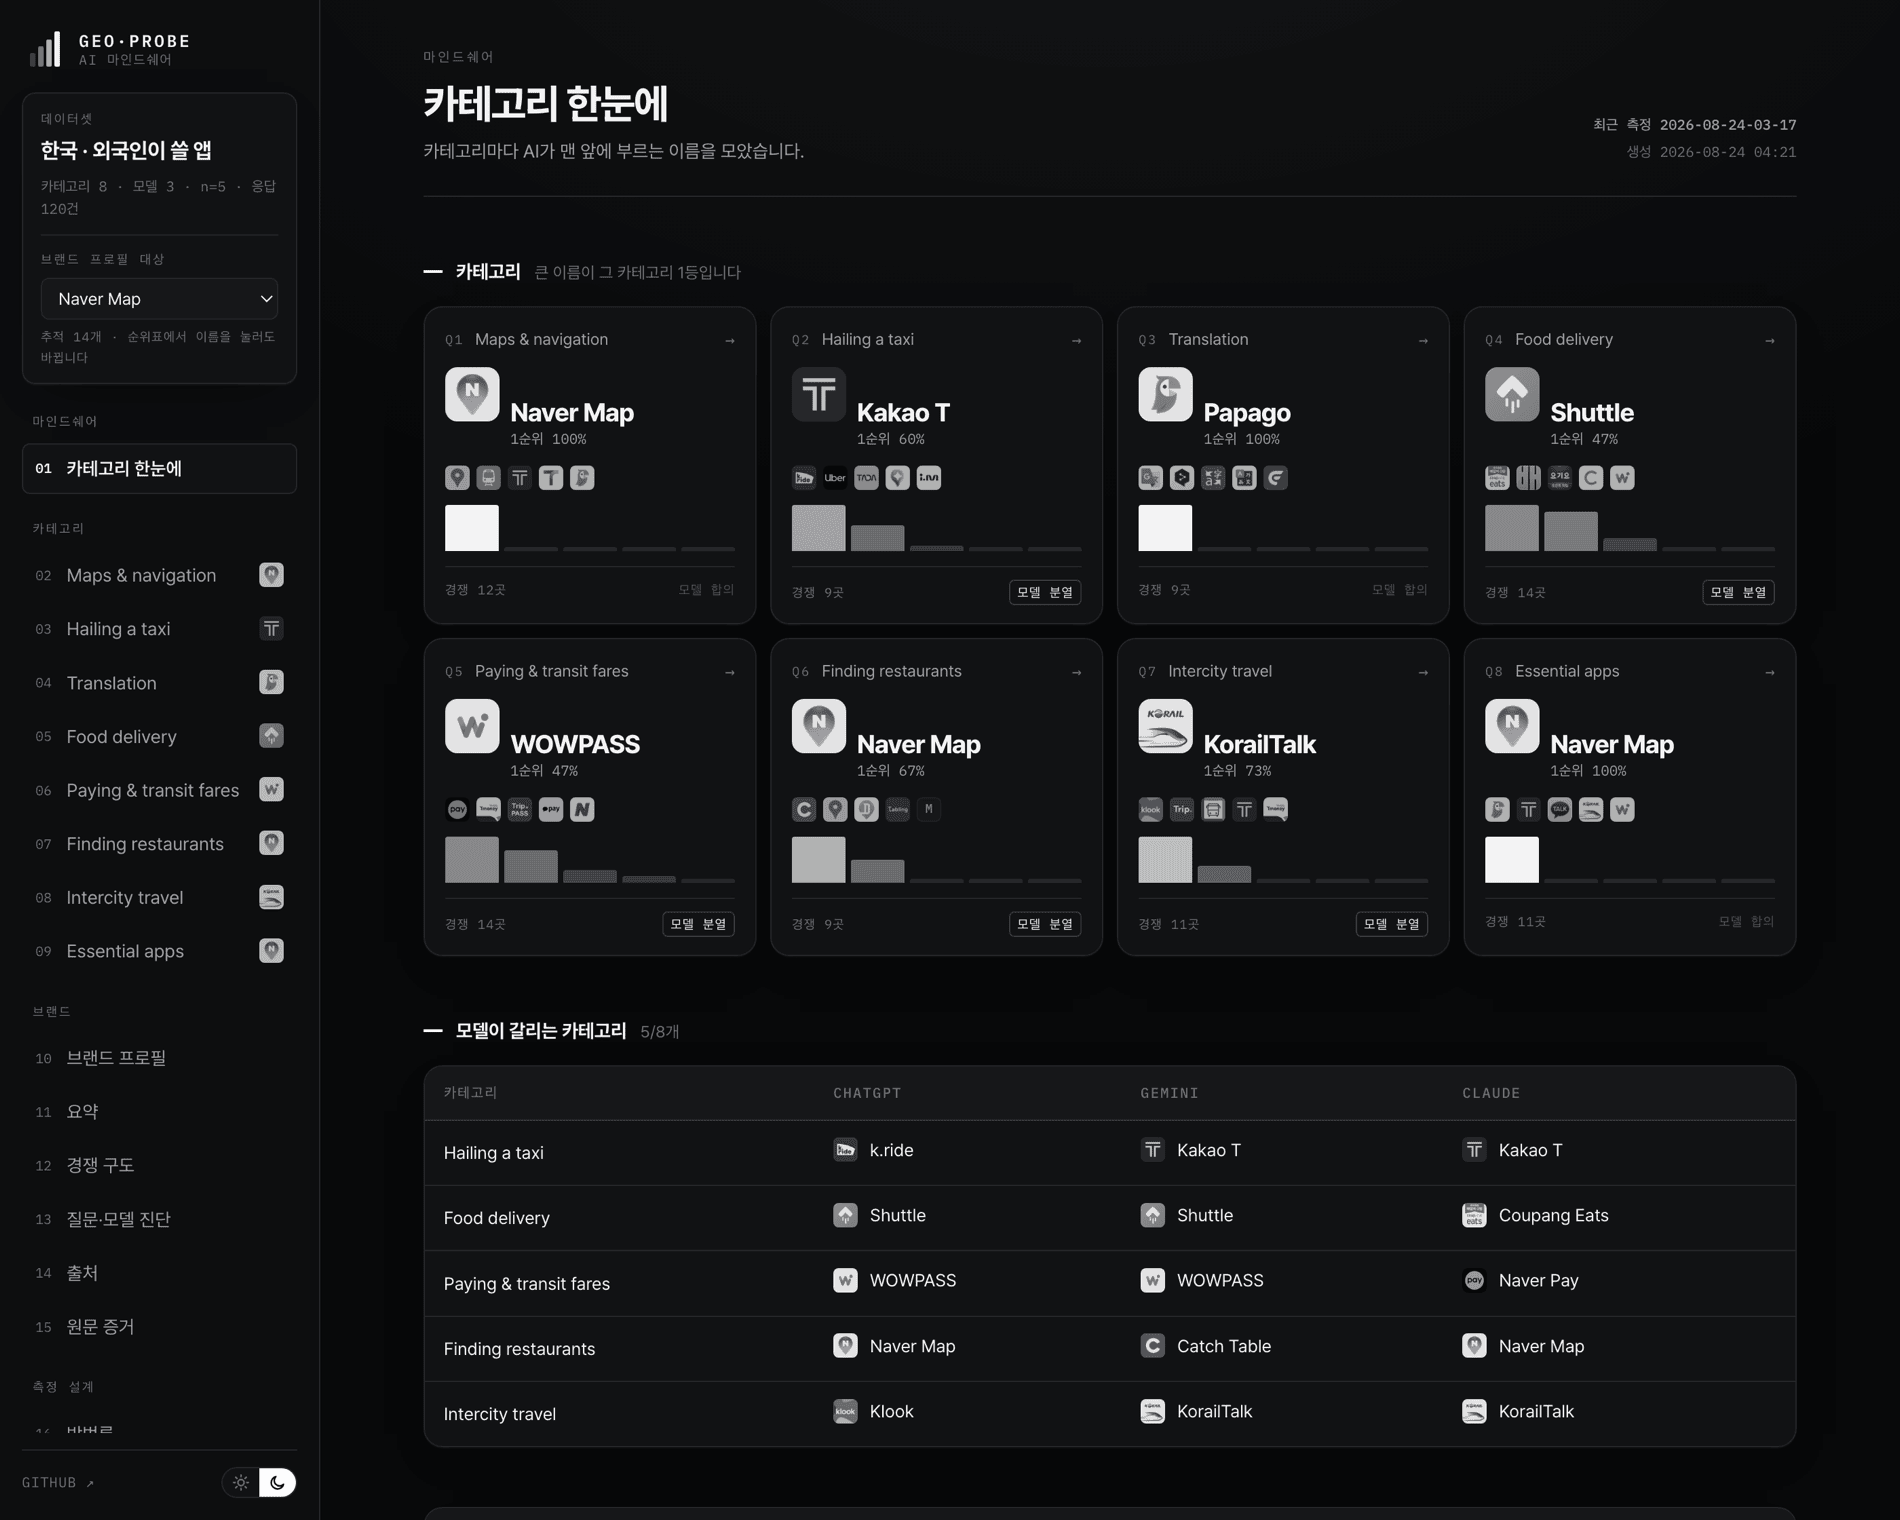
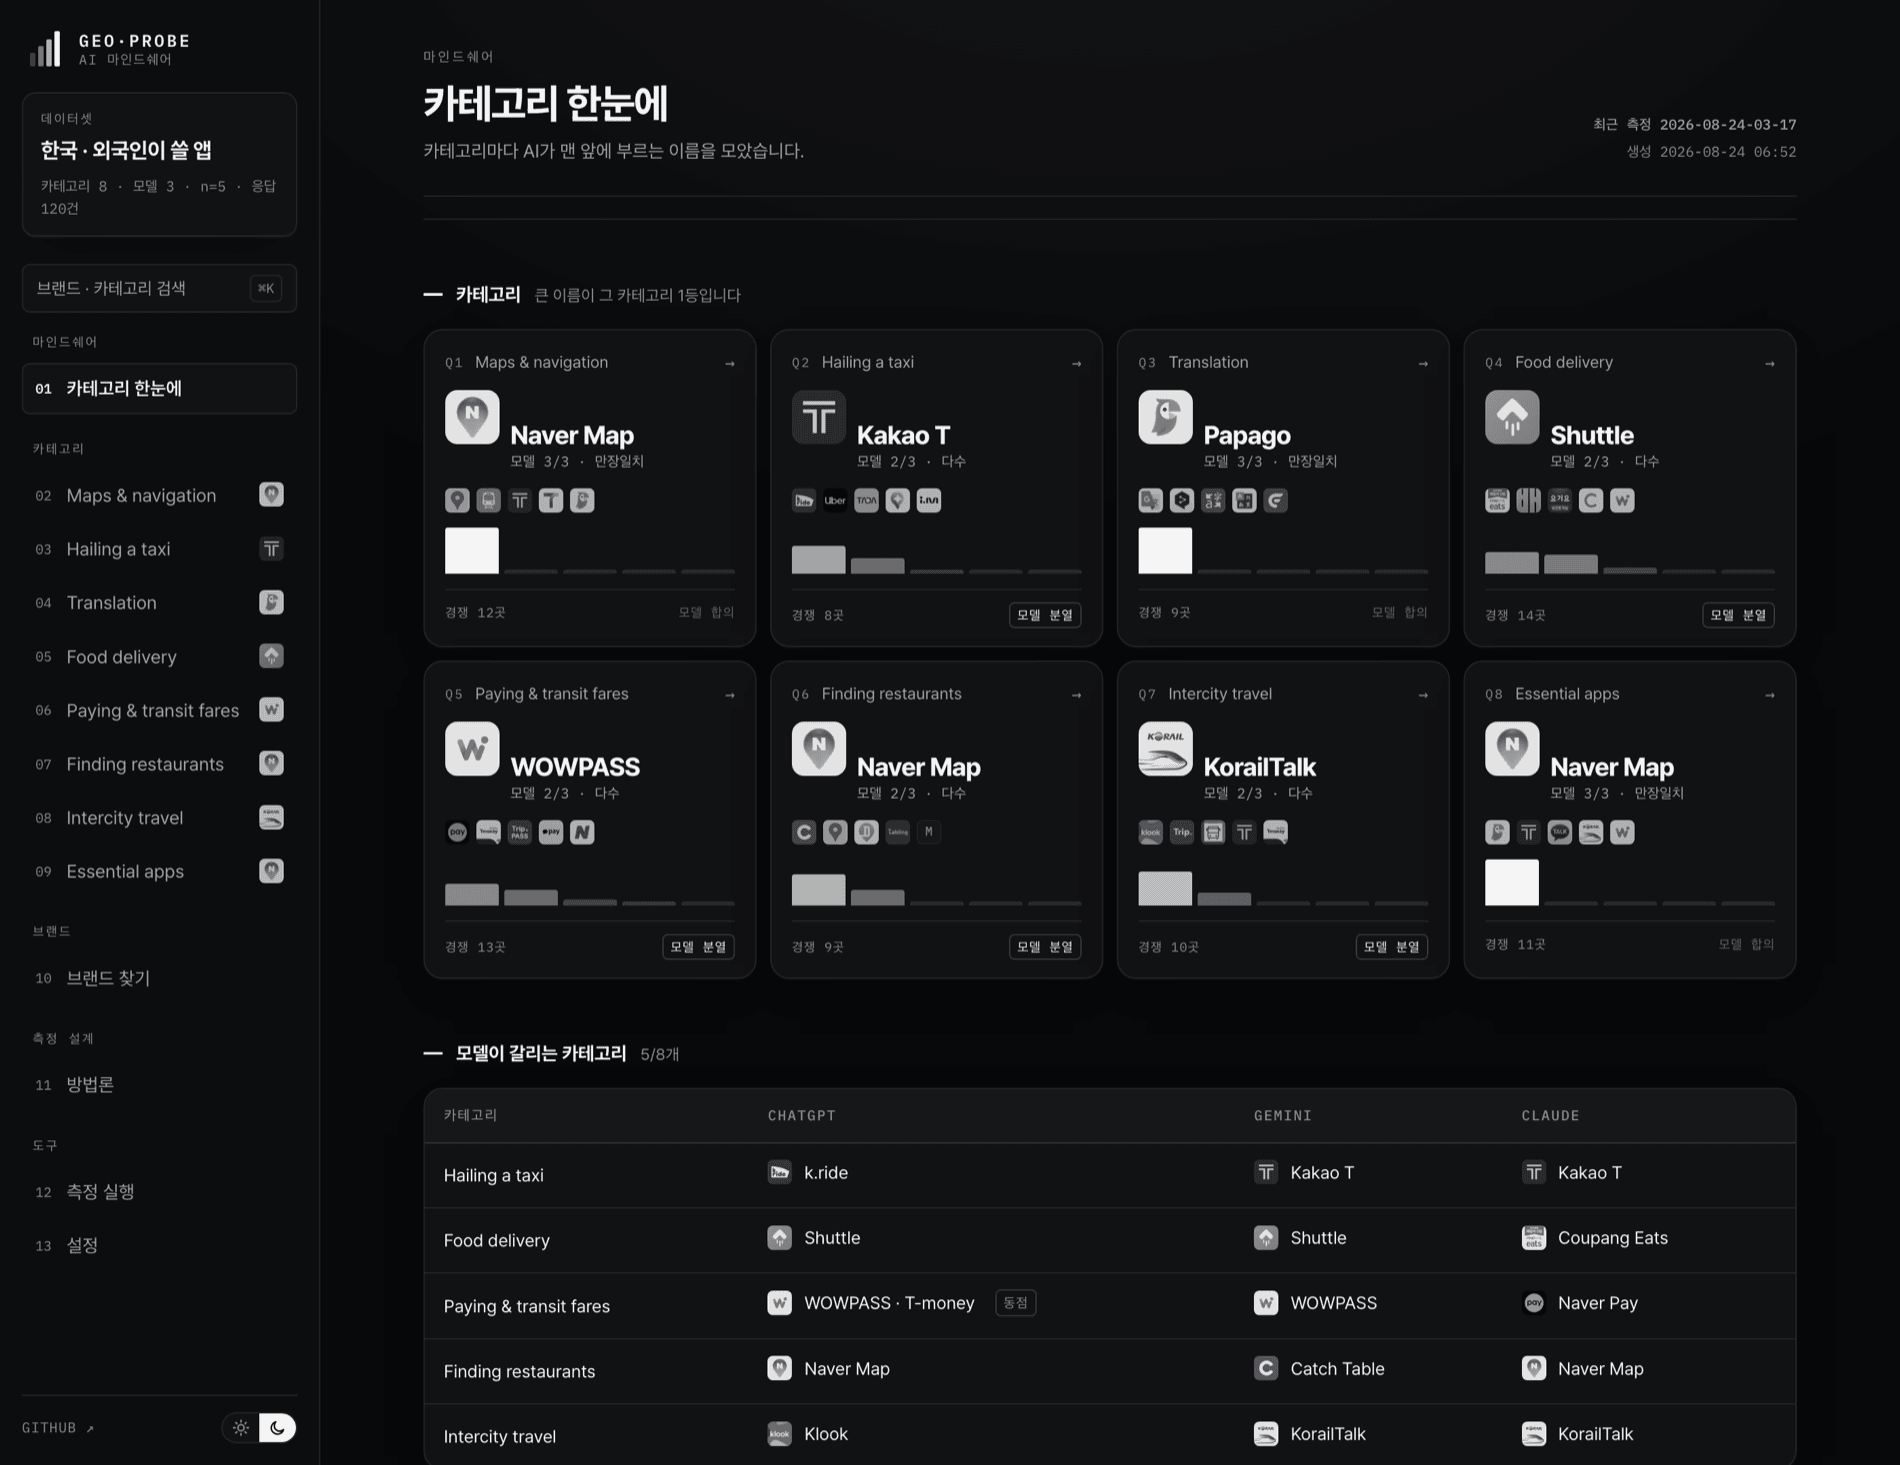
docs: README 를 새 지표·구조에 맞춰 갱신
- 카테고리 표를 퍼센트에서 모델 득표로. 왜 퍼센트를 안 쓰는지("반복은 독립
  표본이 아니다 — 24셀 중 18셀에서 5회가 같은 1위를 냈고, 모델을 클러스터로
  보면 경합 카테고리 CI 가 전부 [0%,100%]") 를 본문에 명시
- 트리맵 설명을 바뀐 인코딩(면적 = 1순위 획득 횟수)에 맞추고, 왜 등장 횟수를
  버렸는지 남겼다. 옛 방식은 1순위 0% 인 KakaoPay 를 최대 타일로 만들어
  바로 위 헤드라인을 반박했다
- 엔티티 수 66 → 63 (표기 병합 후 실제 값)
- 화면 표에 브랜드 찾기 / 브랜드 상세 탭 반영, ⌘K 안내 추가
- 키 전송 문구를 사실대로("선택한 모델로만 전송")
- 스크린샷 4장 교체

diff --git a/README.md b/README.md
@@ -18,7 +18,7 @@ Ask ChatGPT, Gemini, or Claude *"which app should I use for X"* and one name com
 
 **[Open the live dashboard →](https://ai-visibility-monitor-psi.vercel.app)**
 <br>
-<sub>8 categories · 120 answers · every name that came up, counted.</sub>
+<sub>8 categories · 120 answers · every name that came up, counted. Press <kbd>⌘K</kbd> to search.</sub>
 
 </div>
 
@@ -43,18 +43,20 @@ Most AI-visibility tools start by asking *"what's your brand?"* and then tell yo
 
 `geo-probe` starts from the other end. **There is no "your brand" here.** You define a category question, it asks the models over and over, and it counts every name that comes back. The output is a standings table for the category:
 
-| Category | Who AI names first | 1st-place share | Runner-up | Model consensus |
-|---|---|:---:|---|:---:|
-| Maps & navigation | **Naver Map** | 100% | KakaoMap (0%) | ✓ |
-| Hailing a taxi | **Kakao T** | 60% | k.ride (33%) | **split** |
-| Translation | **Papago** | 100% | Google Translate (0%) | ✓ |
-| Food delivery | **Shuttle** | 47% | Coupang Eats (40%) | **split** |
-| Paying & transit fares | **WOWPASS** | 47% | Naver Pay (33%) | **split** |
-| Finding restaurants | **Naver Map** | 67% | Catch Table (33%) | **split** |
-| Intercity travel | **KorailTalk** | 73% | Klook (27%) | **split** |
-| Essential apps | **Naver Map** | 100% | Papago (0%) | ✓ |
+| Category | Who AI names first | Model votes | Runner-up |
+|---|---|:---:|---|
+| Maps & navigation | **Naver Map** | **unanimous** | KakaoMap |
+| Hailing a taxi | **Kakao T** | 2/3 | k.ride |
+| Translation | **Papago** | **unanimous** | Google Translate |
+| Food delivery | **Shuttle** | 2/3 | Coupang Eats |
+| Paying & transit fares | **WOWPASS** | 2/3 | Naver Pay |
+| Finding restaurants | **Naver Map** | 2/3 | Catch Table |
+| Intercity travel | **KorailTalk** | 2/3 | Klook |
+| Essential apps | **Naver Map** | **unanimous** | Papago |
 
-> Real run: *"which apps should a foreigner use in South Korea?"* asked 8 ways × 3 models × `n=5` = **120 answers, all 120 parsed**, 66 distinct app names counted.
+> Real run: *"which apps should a foreigner use in South Korea?"* asked 8 ways × 3 models × `n=5` = **120 answers, all 120 parsed**, 63 distinct app names counted.
+
+**Why votes and not a percentage.** Repeating the same prompt is not an independent sample. In 18 of 24 model×question cells, all five repeats returned the *same* first-place name — the variance lives between models, not between repeats. So a headline like "47% first-place share" is really "1.4 of 3 models," and treating models as clusters puts the 95% CI at [0%, 100%] for every contested category. The dashboard shows the votes it actually observed instead of a precision it does not have.
 
 ---
 
@@ -69,7 +71,9 @@ In the **payments** category, `KakaoPay` is named in **73%** of answers — more
   <img alt="Category detail: mindshare treemap and standings table for the payments category" src="docs/screenshots/cat-light.png">
 </picture>
 
-Read the treemap: **area is how often a name appeared, ink density is how often it came first.** The biggest tile is also the palest one — that is KakaoPay, permanently a candidate and never the default. The dashboard tags that state explicitly rather than letting a single ranking hide it.
+Read the treemap: **area is how many times a name was placed first.** Names that never took the top slot are absent from it — KakaoPay among them, despite leading on mentions. The standings table below carries the full list and tags that state explicitly, so a high mention rate with zero first places reads as what it is.
+
+An earlier version sized tiles by total appearances. That made KakaoPay the largest tile in a category it does not lead, and since the eye reads area first, the picture contradicted the headline directly above it.
 
 ---
 
@@ -97,7 +101,7 @@ flowchart LR
 2. **analyze** — parse each list and count every name that appears, with the position it appeared at.
 3. **export** — build per-category standings, plus an optional per-brand profile for names you want to track over time.
 
-The questions never contain a brand name, so **one run scores the whole category at once** — the 66 names above came from a single 120-call run.
+The questions never contain a brand name, so **one run scores the whole category at once** — the 63 names above came from a single 120-call run.
 
 ---
 
@@ -134,9 +138,10 @@ Two-tone on purpose: **value is carried by ink density, never by colour**, so a 
 |---|---|
 | **카테고리 한눈에** Categories | Who leads every category, and where the models disagree |
 | **카테고리 상세** Category | Standings, mindshare treemap, and the leader per model |
-| **브랜드 프로필** Brand profile | Optional drill-down: where one name lives across categories |
+| **브랜드 찾기** Brands | Every tracked name, side by side, by breadth and depth |
+| **브랜드 상세** Brand | Drill-down tabs: summary, competition, diagnosis, sources, evidence |
 | **방법론** Method | Questions, models, calculation rules, and the limits |
-| **측정 실행** Run | Run a measurement from the browser; keys never leave it |
+| **측정 실행** Run | Run a measurement from the browser; keys go only to the model you pick |
 
 Four things it refuses to do:
 
